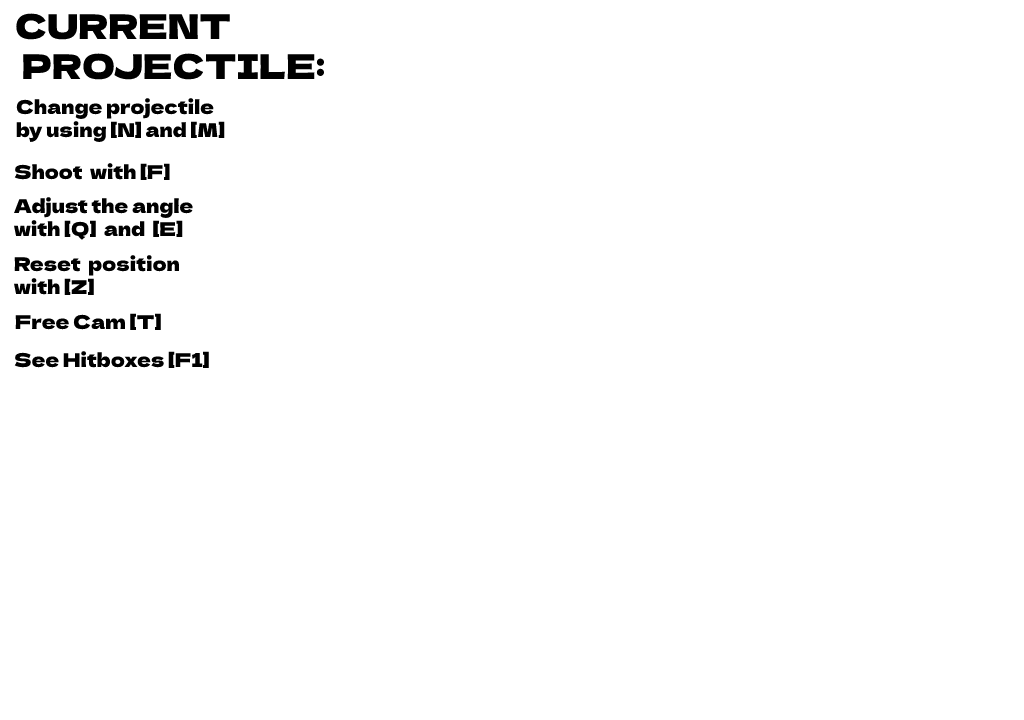
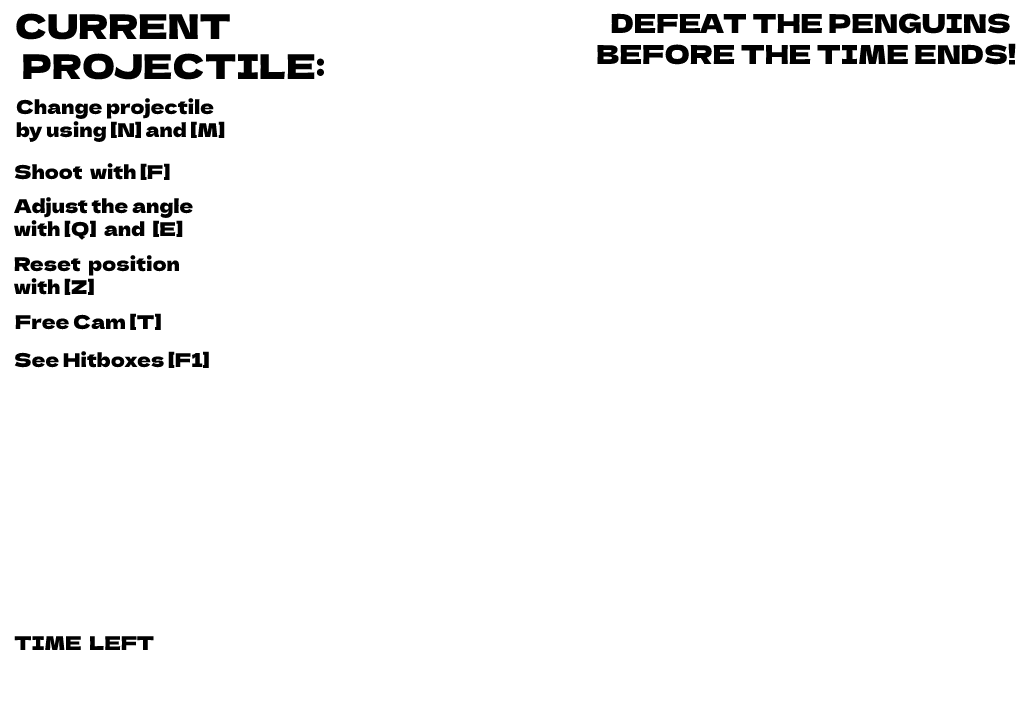
added win and lose conditions

Changed region(s): [[0.5625, 0.0, 1.0, 0.0917], [0.0, 0.8861, 0.1562, 0.9167]]

diff --git a/Physics_Engine/ModulePlayer.cpp b/Physics_Engine/ModulePlayer.cpp
@@ -30,8 +30,10 @@ bool ModulePlayer::Start()
 	tex_player = App->textures->Load("Assets/images/worm.png");
 	Arrow = App->textures->Load("Assets/images/arrow.png");
 	UI = App->textures->Load("Assets/images/UI.png");
+	win = App->textures->Load("Assets/images/win.png");
+	lose = App->textures->Load("Assets/images/lose.png");
 	angle = 0;
-
+	bar_v = SCREEN_WIDTH / gameTime;
 	return true;
 }
 
@@ -46,20 +48,20 @@ bool ModulePlayer::CleanUp()
 // Update: draw background
 update_status ModulePlayer::PreUpdate(float dt)
 {
-	if (App->input->GetKey(SDL_SCANCODE_D) == KEY_REPEAT)
+	if (App->input->GetKey(SDL_SCANCODE_D) == KEY_REPEAT && pos0 > -SCREEN_WIDTH)
 	{
 		if (fabs(body->velocity.x) < maxVelocity) body->velocity.x += speed;
 	}
-	if (App->input->GetKey(SDL_SCANCODE_A) == KEY_REPEAT)
+	if (App->input->GetKey(SDL_SCANCODE_A) == KEY_REPEAT && pos0 > -SCREEN_WIDTH)
 	{
 		if (fabs(body->velocity.x) < maxVelocity) body->velocity.x -= speed;
 	}
-	//if (App->input->GetKey(SDL_SCANCODE_SPACE) == KEY_DOWN && body->onGround)
-	//{
-	//	body->velocity.y = 0;
-	//	body->acceleration.y -= jumpForce;
-	//	
-	//}
+	if (App->input->GetKey(SDL_SCANCODE_SPACE) == KEY_DOWN)
+	{
+		body->velocity.y = 0;
+		body->acceleration.y -= jumpForce;
+		
+	}
 
 	if (App->input->GetKey(SDL_SCANCODE_Z) == KEY_DOWN || body->position.y > 3000)
 	{
@@ -130,7 +132,7 @@ update_status ModulePlayer::Update(float dt)
 
 
 
-	if (App->input->GetKey(SDL_SCANCODE_F) == KEY_DOWN && shootTime == 0)
+	if (App->input->GetKey(SDL_SCANCODE_F) == KEY_DOWN && shootTime == 0 && pos0 > -SCREEN_WIDTH)
 	{
 
 		
@@ -245,7 +247,25 @@ update_status ModulePlayer::PostUpdate(float dt)
 		break;
 	}
 	
+	pos0 -= bar_v;
+	LOG("pos %i", gameTime);
 	App->renderer->Blit(UI, 0, 0, NULL,0);
+	App->renderer->Blit(App->scene_intro->barBG, 0, 0, NULL, 0);
+	App->renderer->Blit(App->scene_intro->bar, pos0, 0, NULL, 0);
+
+
+	if (App->entity_handler->enemy_1.count() == 0)
+	{
+		App->renderer->Blit(win, SCREEN_WIDTH / 2 - 208, 150, NULL, 0);
+		bar_v = 0;
+		
+
+	}
+	else if (pos0 < -SCREEN_WIDTH)
+	{
+		App->renderer->Blit(lose, SCREEN_WIDTH / 2 - 430,  150, NULL, 0);
+
+	}
 
 
 	return UPDATE_CONTINUE;

diff --git a/Physics_Engine/ModuleSceneIntro.cpp b/Physics_Engine/ModuleSceneIntro.cpp
@@ -107,6 +107,8 @@ bool ModuleSceneIntro::Start()
 
 	background = App->textures->Load("Assets/images/background.png");
 	bumper = App->textures->Load("Assets/images/bumper.png");
+	bar = App->textures->Load("Assets/images/time_bar.png");
+	barBG = App->textures->Load("Assets/images/timer_bar_bg.png");
 
 	 App->renderer->camera.x = 0;
 	 App->renderer->camera.y = 0;

diff --git a/Physics_Engine/Application.h b/Physics_Engine/Application.h
@@ -35,7 +35,7 @@ public:
 	Ent_Egg* egg;
 	Ent_Enemy_1* ent_enemy_1;
 	
-
+	float dt = 0.0f;
 private:
 
 	p2List<Module*> list_modules;
@@ -55,7 +55,7 @@ private:
 	uint32 maxFrameRate = 60;
 
 	float averageFps = 0.0f;
-	float dt = 0.0f;
+	
 	
 	
 

diff --git a/Physics_Engine/ModulePlayer.h b/Physics_Engine/ModulePlayer.h
@@ -50,6 +50,13 @@ public:
 	int shootTimer = 90;
 	int shootTime = 0;
 
+	float gameTime = 60 * 60 * 2;
+	float pos0 = 0;
+	float bar_v = SCREEN_WIDTH / gameTime;
+
+	SDL_Texture* win;
+	SDL_Texture* lose;
+
 
 
 };

diff --git a/Physics_Engine/ModuleSceneIntro.h b/Physics_Engine/ModuleSceneIntro.h
@@ -38,6 +38,8 @@ public:
 	//SDL_Rect ground;
 	SDL_Rect plant;
 	SDL_Texture* meta;
+	SDL_Texture* bar;
+	SDL_Texture* barBG;
 
 	p2Point <int> plantPos;
 };
